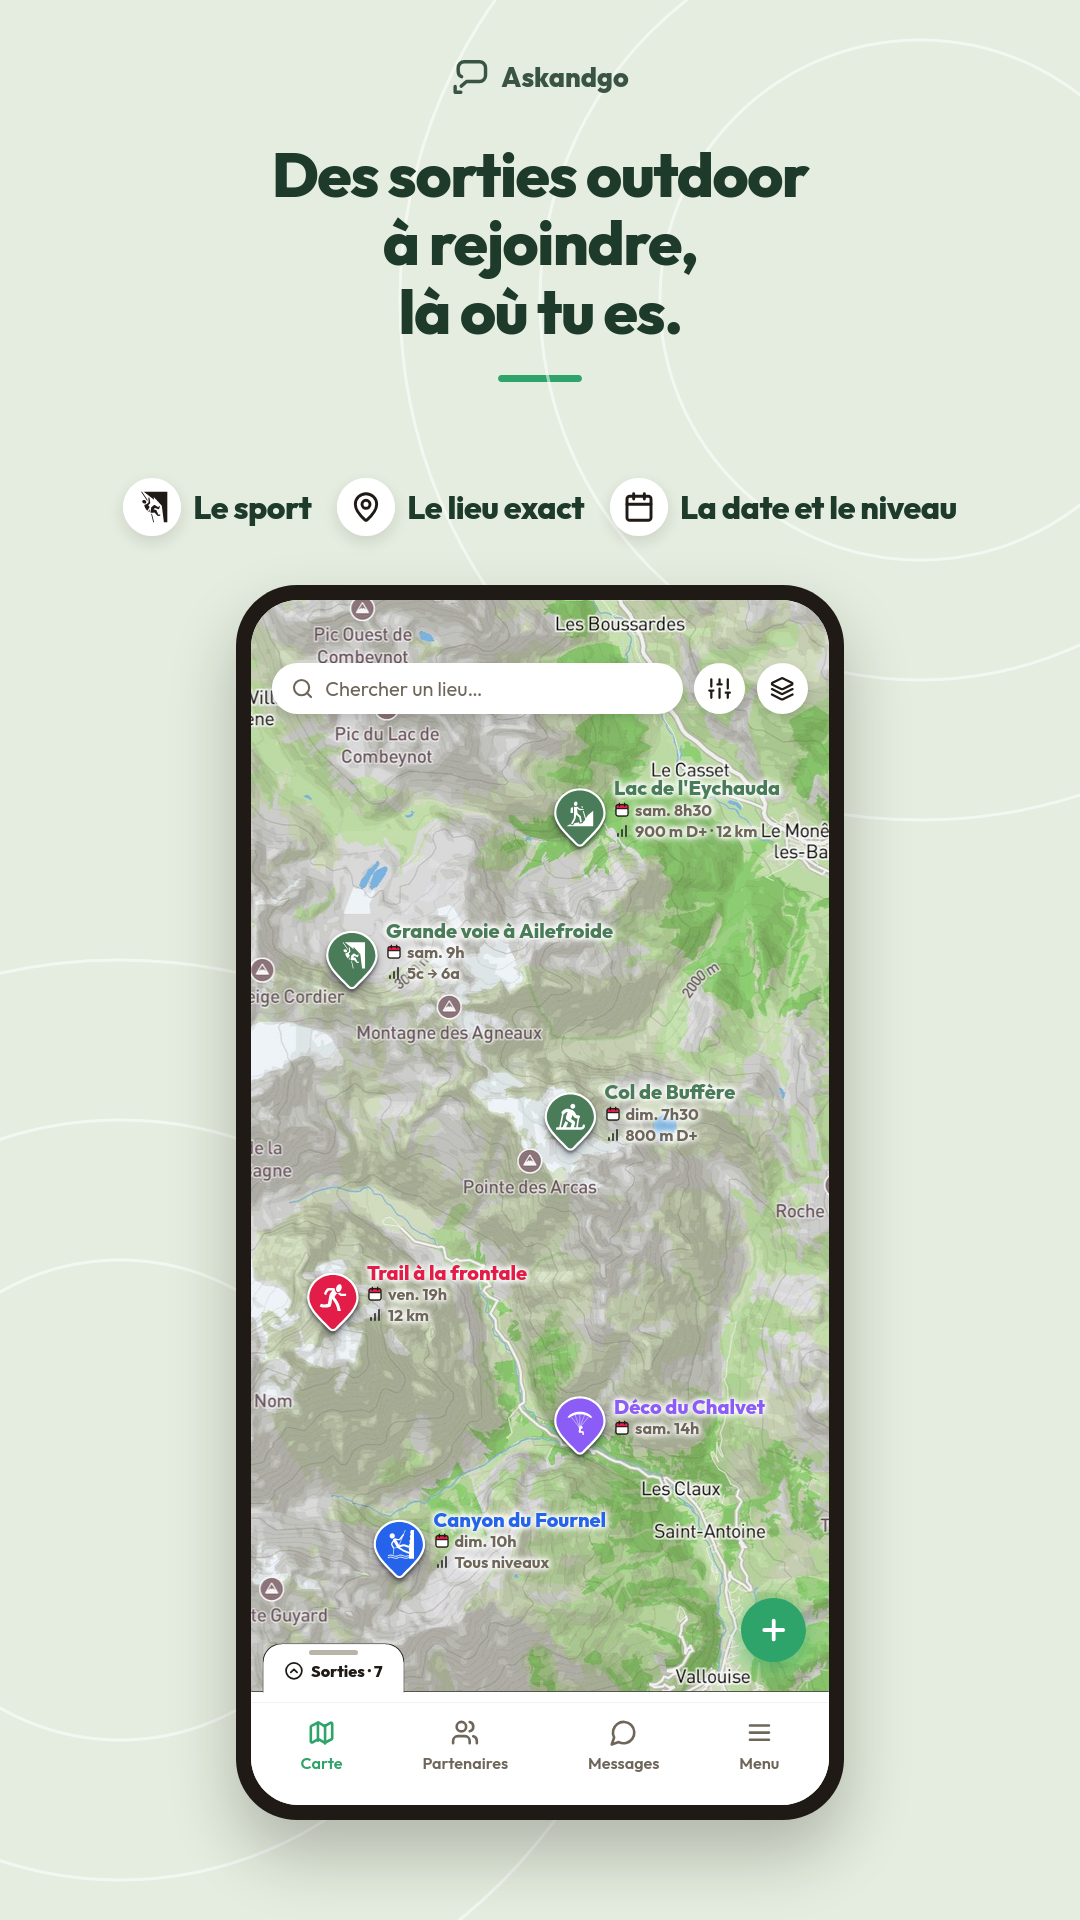
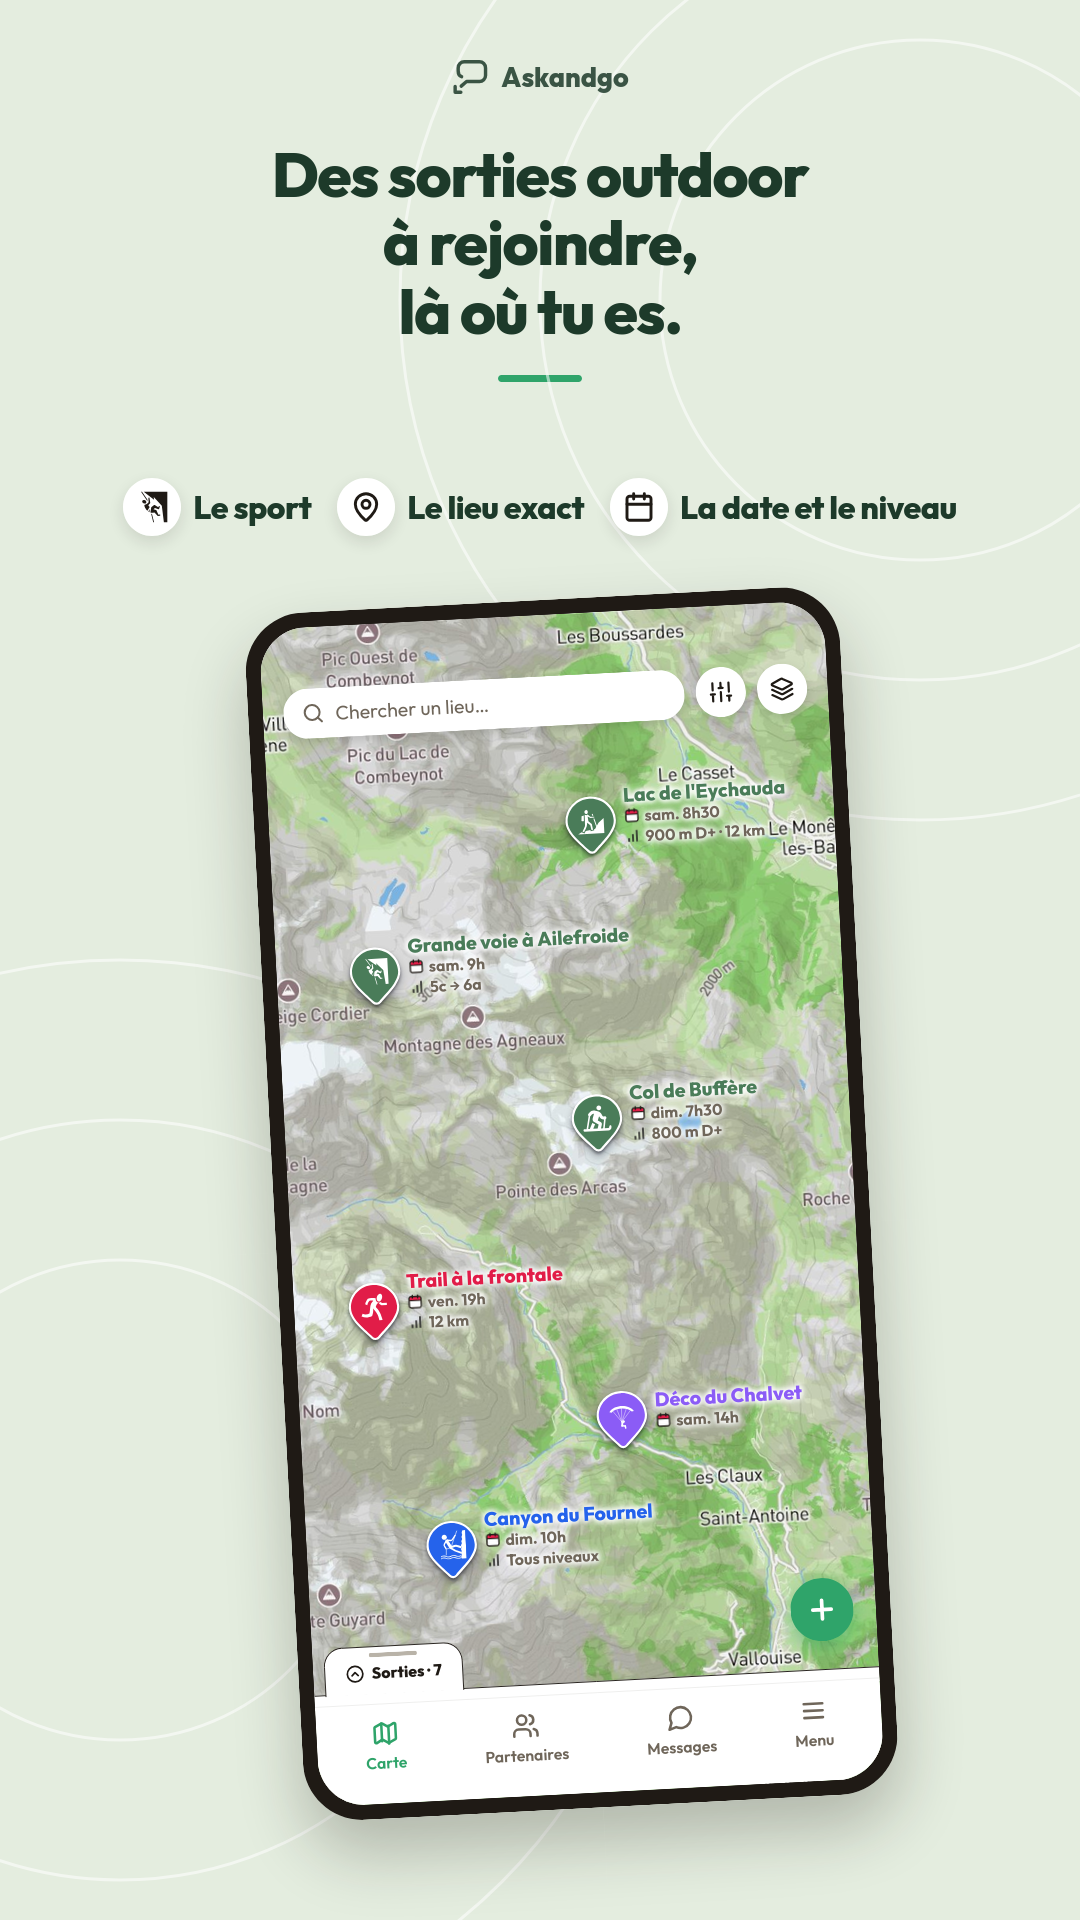
feat(play): image 1 — the big phone slightly tilted again (−3°), keyword row kept

Changed region(s): [[0.2139, 0.2812, 0.8556, 0.9688]]

diff --git a/assets/play-store/askandgo/carte1.py b/assets/play-store/askandgo/carte1.py
@@ -64,7 +64,7 @@ def keywords(items):
     return f'<div style="position:absolute;left:0;right:0;top:478px;display:flex;justify-content:center;gap:26px;padding:0 20px">{cells}</div>'
 items = [(sp('climbing-sport', 34, INK), 'Le sport'), (li('pin', 32, INK), 'Le lieu exact'), (li('cal', 32, INK), 'La date et le niveau')]
 shell = screen("Des sorties outdoor<br>à rejoindre,<br>là où tu es.", '', '', '')
-phone = f'<div class="phone" style="left:220px;top:585px;transform:scale(.95);box-shadow:0 36px 70px rgba(31,26,21,.26)"><div class="scr">{body}</div></div>'
+phone = f'<div class="phone" style="left:220px;top:600px;transform:scale(.93) rotate(-3deg);box-shadow:0 36px 70px rgba(31,26,21,.26)"><div class="scr">{body}</div></div>'
 html = shell.replace('<div class="phone"><div class="scr"></div></div>', keywords(items) + phone)
 html = html.replace('font-size:82px;line-height:1.04', 'font-size:62px;line-height:1.1').replace('margin:150px 70px 0;text-align:center', 'margin:140px 60px 0;text-align:center')
 open(sys.argv[1], 'w').write(html)
